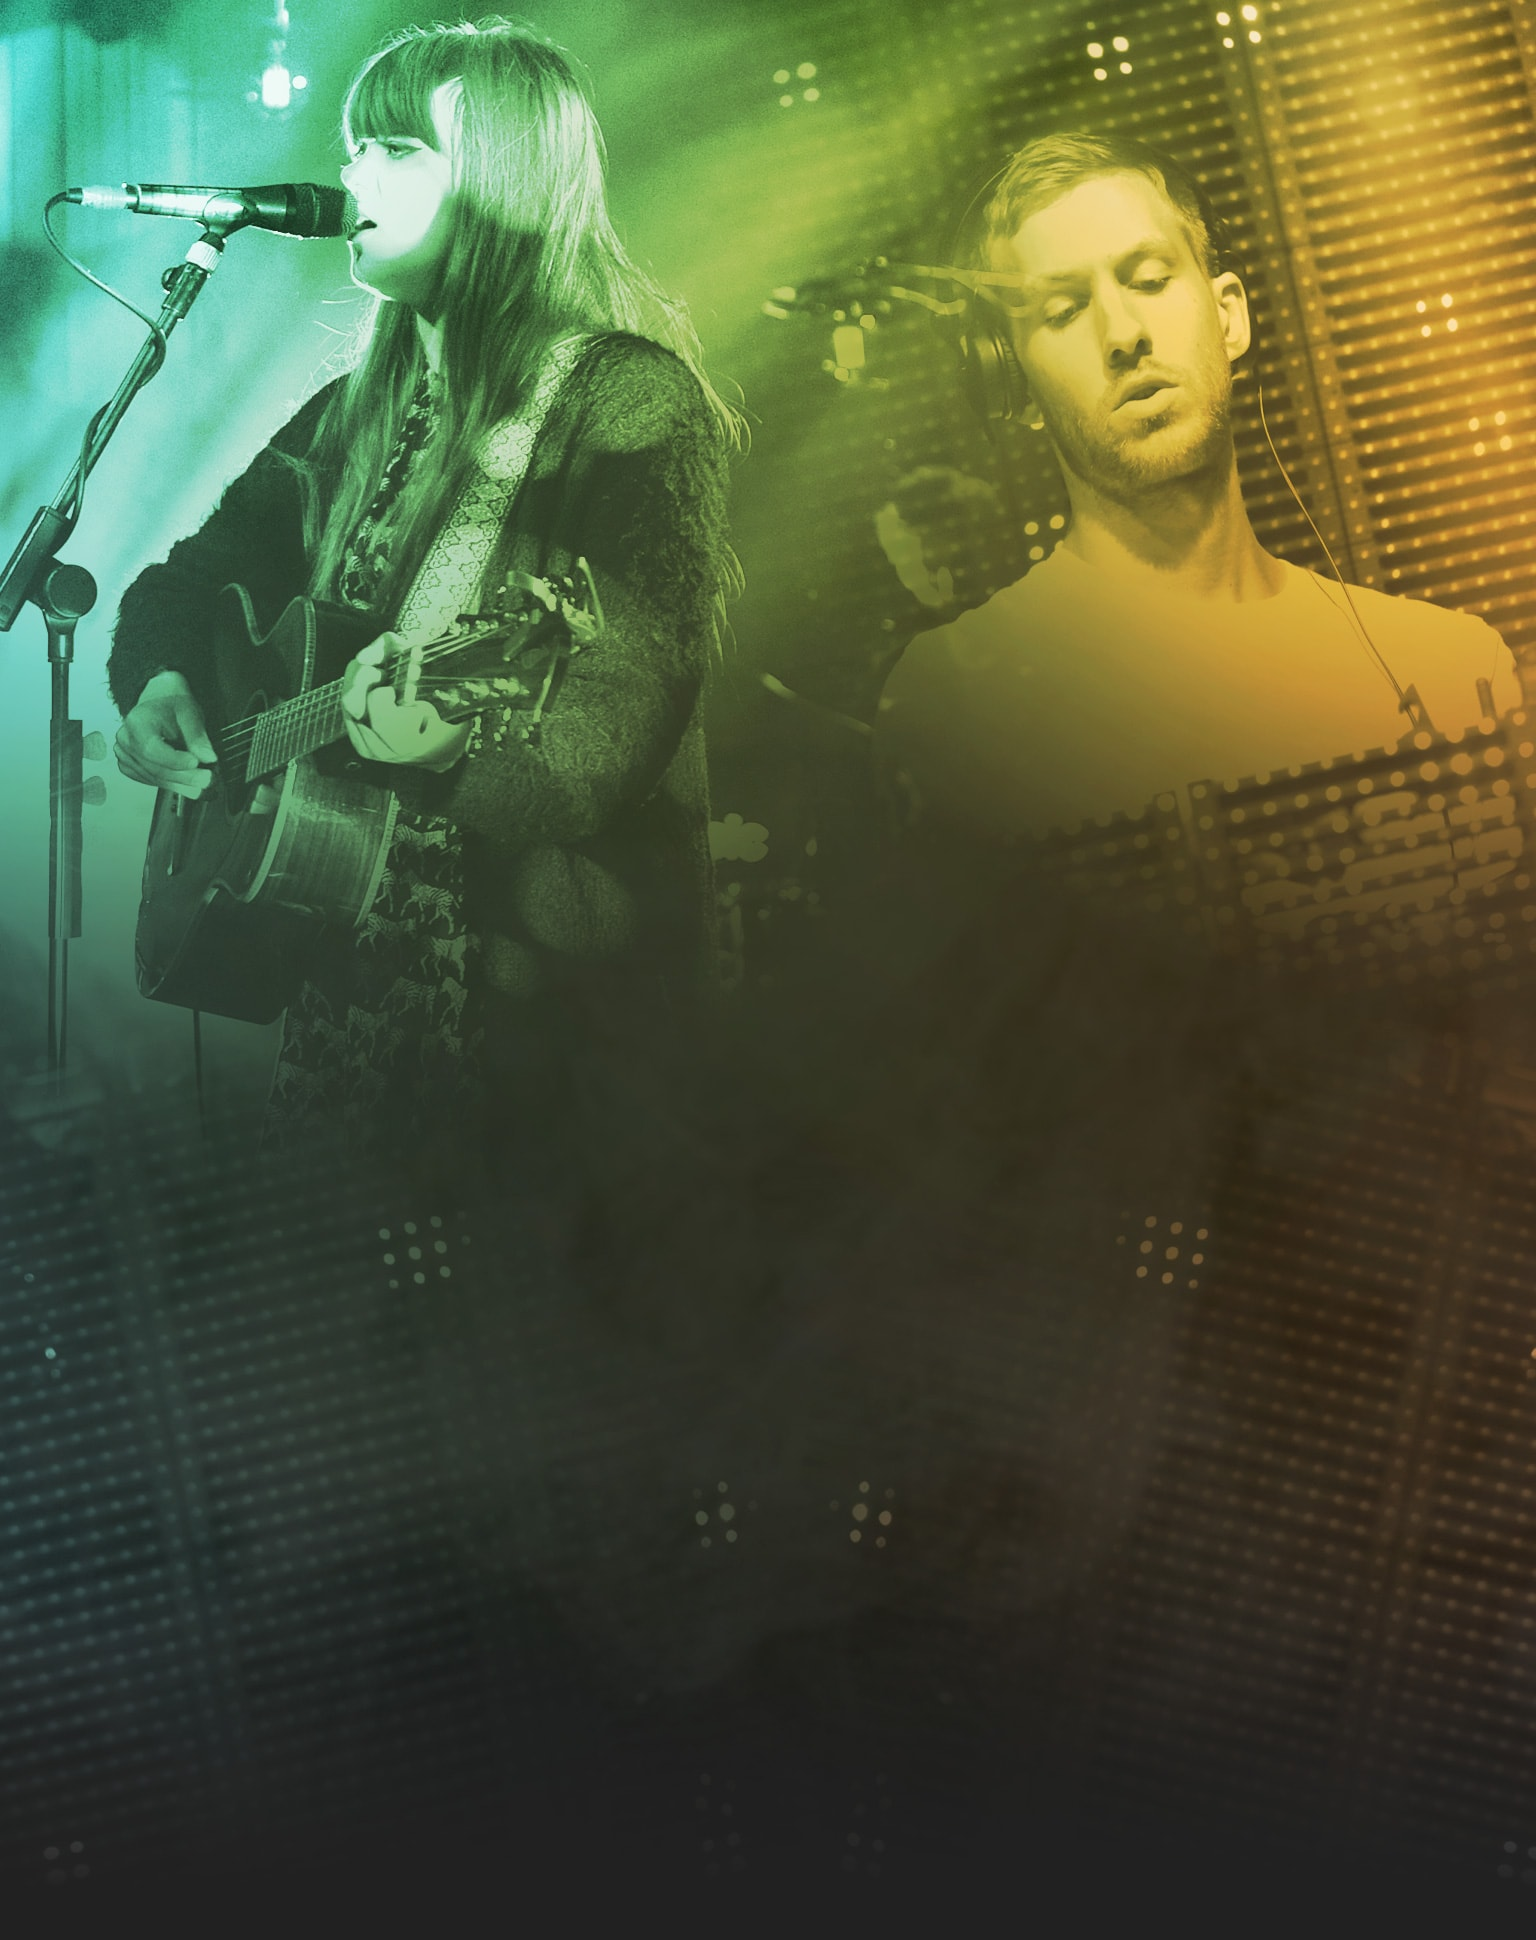
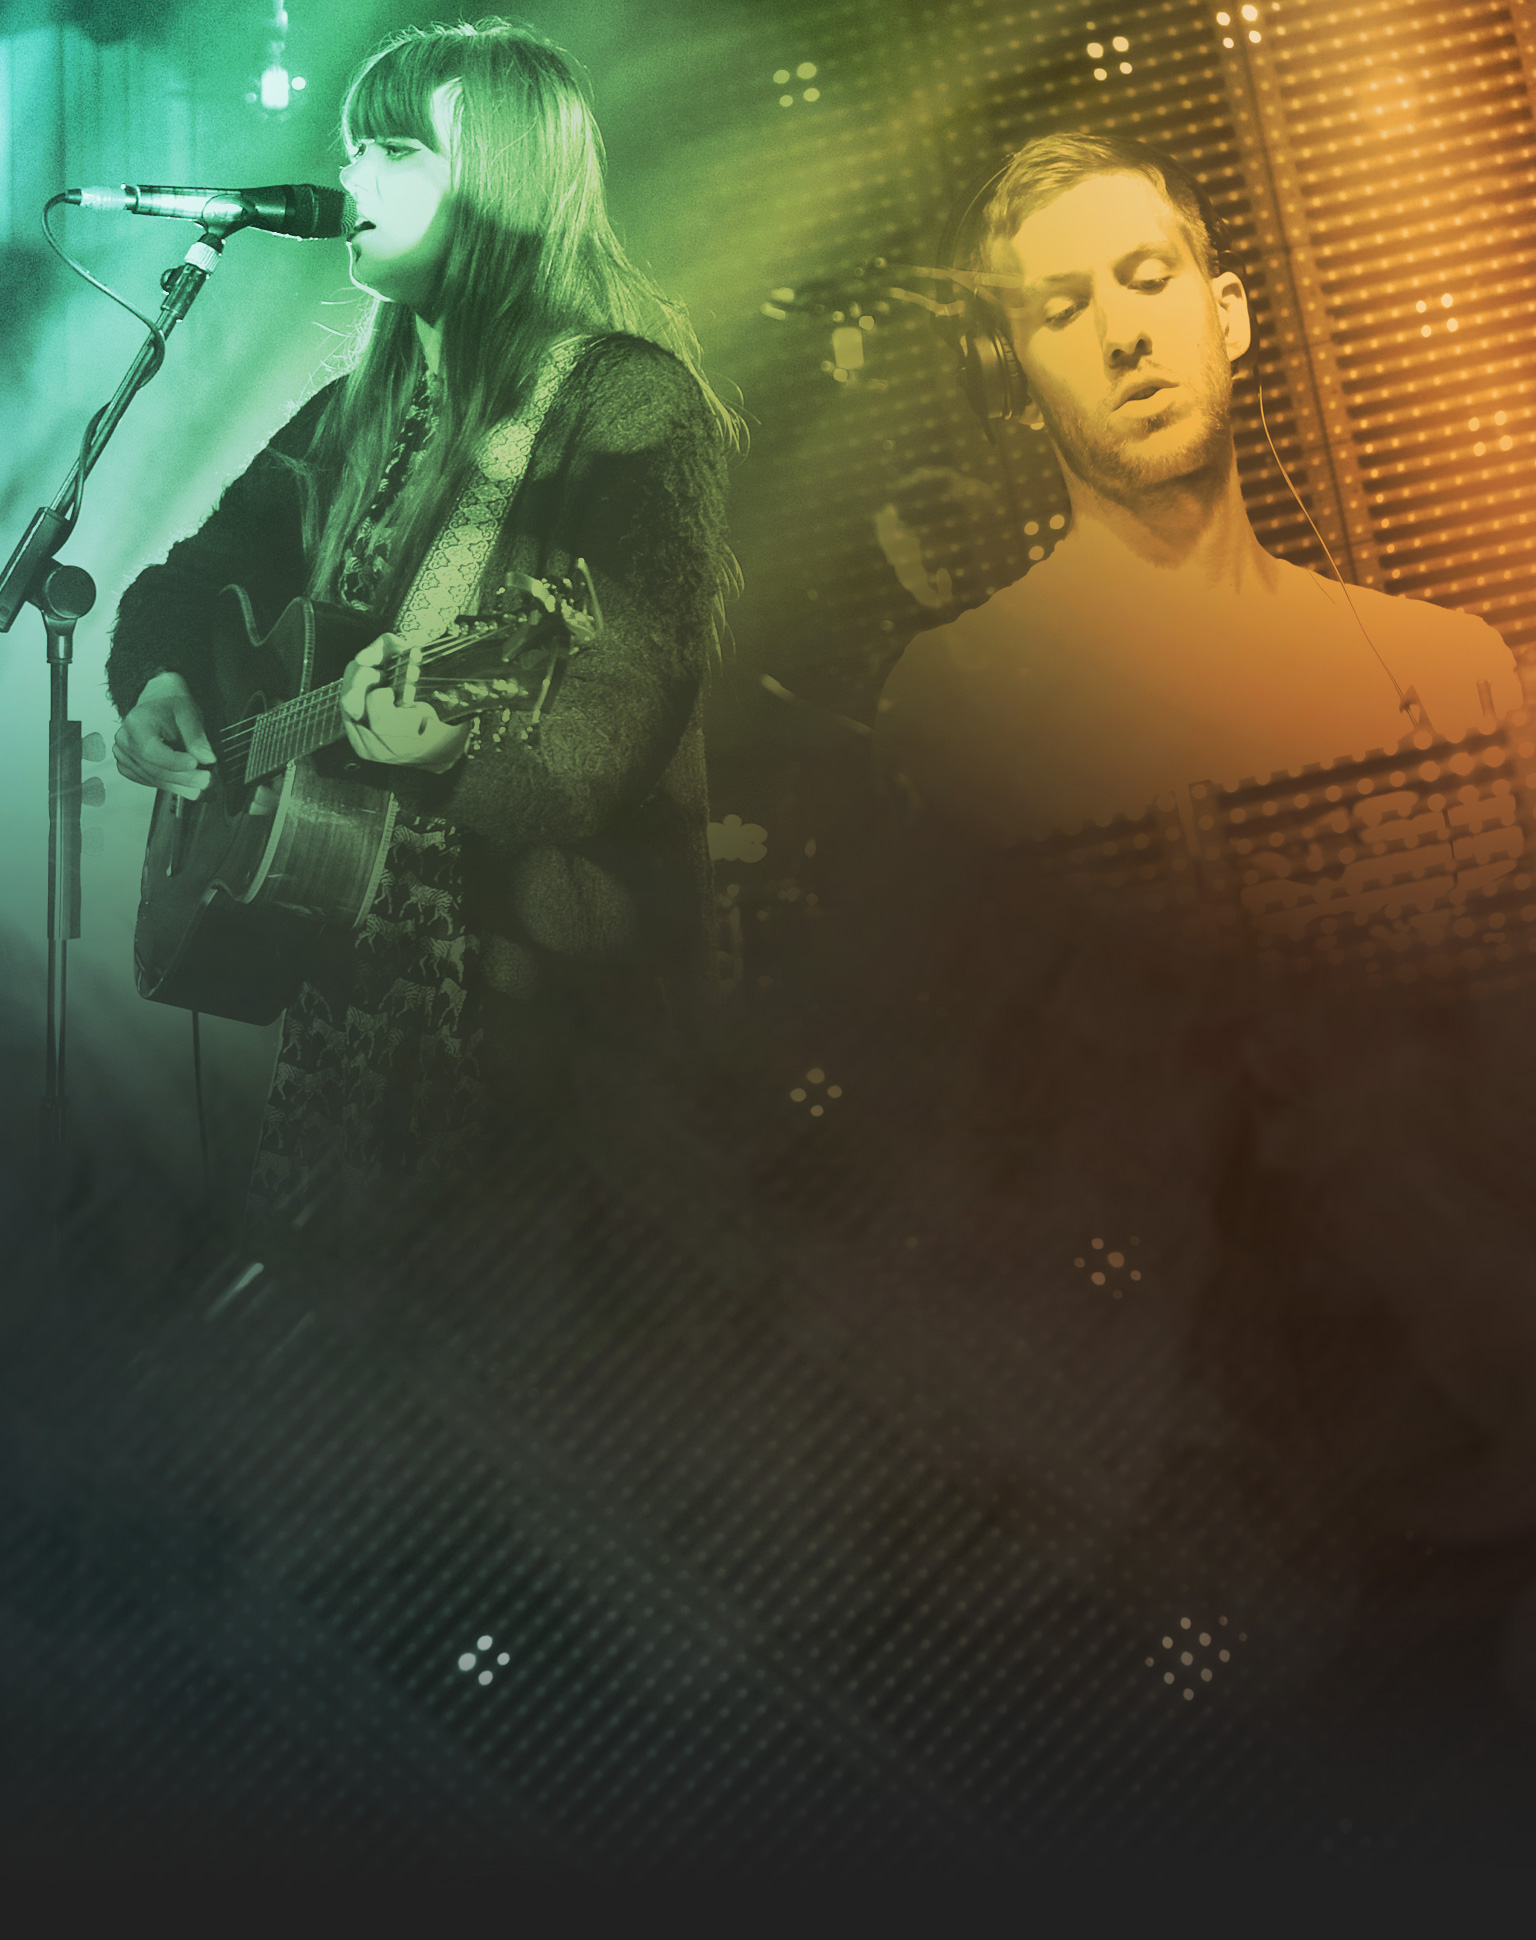
updated top section background images

diff --git a/source/scss/topSearchSection.scss b/source/scss/topSearchSection.scss
@@ -5,7 +5,7 @@ $base--border-color: #000;
 .ns12791_topSearchHolder {
 	width: 100%;
 	min-height: 100vh;
-	background-color: #000;
+	background-color: #212121;
 	background-repeat: no-repeat;
 	background-size: 100% auto;
 	display: table;
@@ -137,19 +137,10 @@ $base--border-color: #000;
 	}
 }
 
-//'tablet' and 'desktop' landscape
-@media screen and (orientation:landscape) and (min-width: 769px) {
-	.ns12791_topSearchHolder {
-		background-image: url('../img/topbg_large_landscape.jpg');
-	}
-}
-
-//
-
 //'mobile' portrait
 @media screen and (orientation:portrait) {
 	.ns12791_topSearchHolder {
-		background-image: url('../img/topbg_small_portrait.jpg');
+		background-image: url('../img/topbg_v_small_portrait.jpg');
 	}
 }
 
@@ -157,6 +148,13 @@ $base--border-color: #000;
 @media screen and (orientation:portrait) and (min-width: 641px) {
 	.ns12791_topSearchHolder {
 		background-image: url('../img/topbg_medium_portrait.jpg');
+	}
+}
+
+//'tablet' and 'desktop' landscape
+@media screen and (orientation:landscape) and (min-width: 769px) {
+	.ns12791_topSearchHolder {
+		background-image: url('../img/topbg_large_landscape.jpg');
 	}
 }
 
